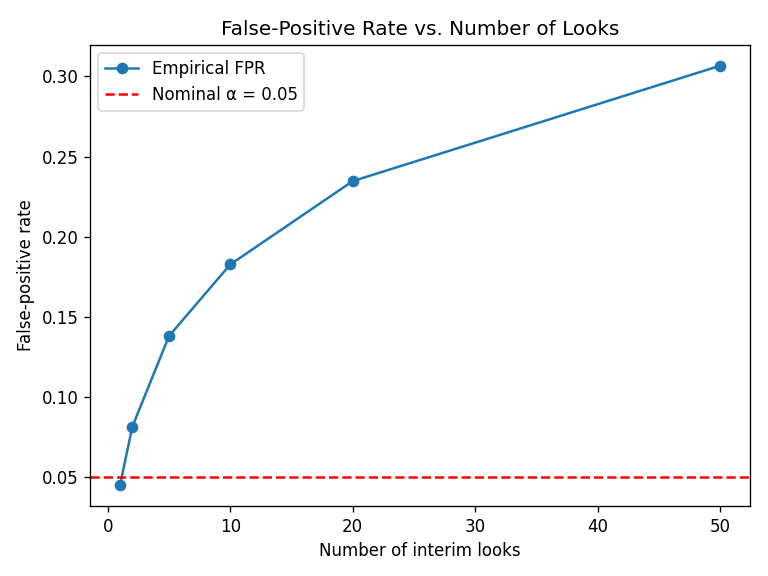
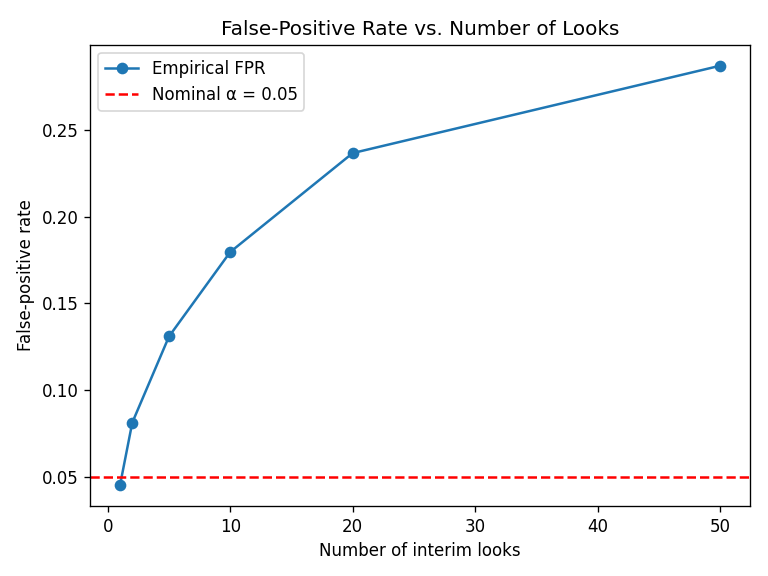
Add post log for session 01 and update dependencies
- Created a post log documenting the initial session, including built components and observations.
- Updated Python version in pyproject.toml and poetry.lock to 3.13.12.
- Modified peeking.py to clarify false-positive inflation notes.
- Updated binary image report for peeking FPR.

diff --git a/src/adaptive_experiments/ab_testing/peeking.py b/src/adaptive_experiments/ab_testing/peeking.py
@@ -3,6 +3,7 @@ Peeking simulation for A/B tests.
 
 Demonstrates false-positive inflation when a test is checked repeatedly and
 stopped early once p < alpha, even when there is no true effect (H0 is true).
+
 """
 
 from dataclasses import dataclass
@@ -39,7 +40,11 @@ def simulate_peeking(
     Under H0 (both groups have p_true), the test is peeked at n_looks equally
     spaced checkpoints and stopped as soon as p < alpha.  When n_looks == 1
     the false-positive rate should be approximately alpha.  As n_looks grows,
-    the false-positive rate inflates substantially above alpha.
+    the false-positive rate inflates substantially above alpha. 
+
+    Additional notes, because you're setting the actually likelihood of success
+    as equal for both control and treatment groups, there actually is no difference at 
+    all.
 
     Returns a summary with the empirical false-positive rate.
     """

diff --git a/content/post_log.md b/content/post_log.md
@@ -1,0 +1,19 @@
+# Post Log
+
+## 2026-04-13 — Session 01
+### Built
+- Repo scaffold
+- README framing
+- Initial A/B testing module outline
+
+### Question
+- How should I structure this repo so A/B testing and bandits are compared honestly rather than as separate toy demos?
+
+### Observations
+- The project is clearer when organized around decision objectives, not algorithms alone.
+
+### Interesting because
+- This framing naturally supports a stronger explanation of why A/B tests and bandits are not interchangeable.
+
+### Possible post angle
+- “A/B testing and bandits are often grouped together, but they solve different problems.”
